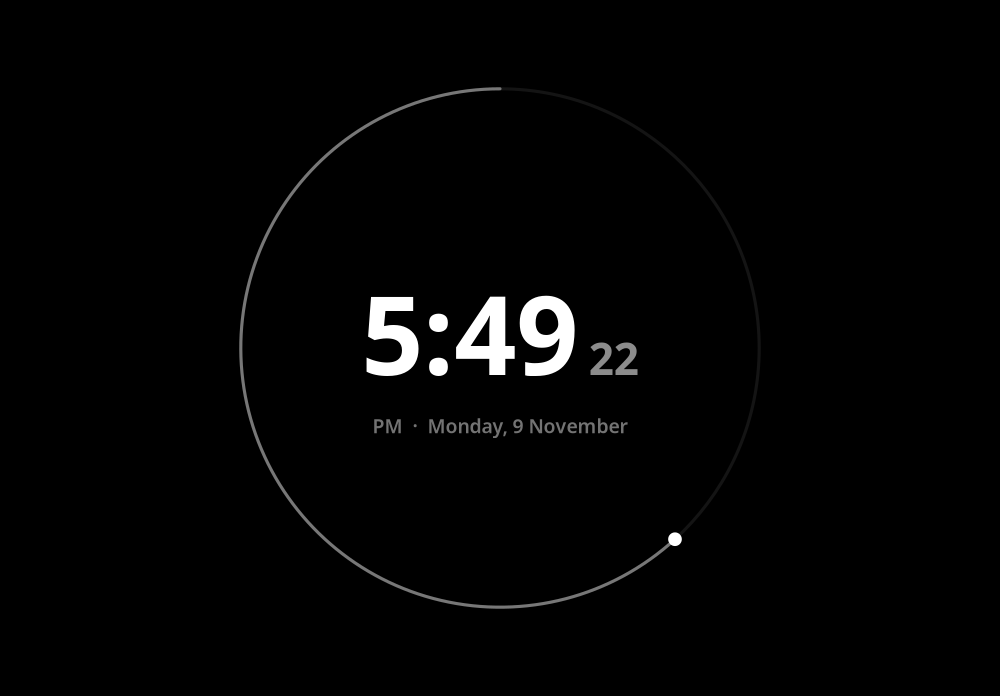
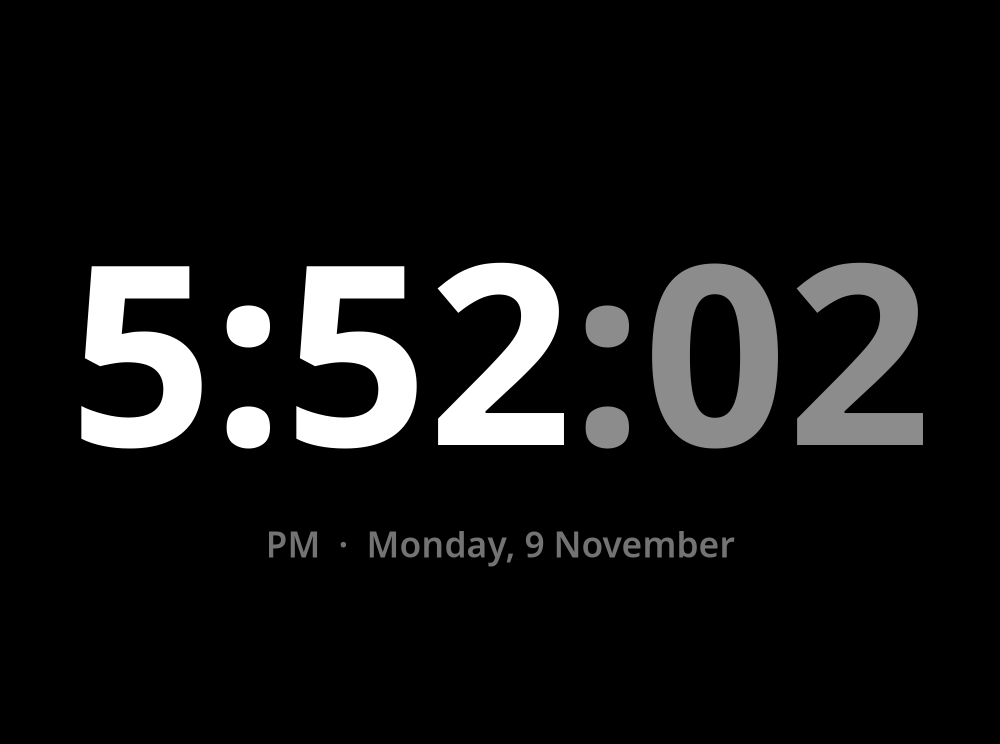
Clock: full-width digital HH:MM:SS, no ring; redraw once per second
Claude-Session: https://claude.ai/code/session_012SCLY9BzmqQHhdFNaUoLWW

diff --git a/lyrics_overlay/clockface.py b/lyrics_overlay/clockface.py
@@ -1,11 +1,15 @@
-"""Full-screen clock: big time, date, and a ring whose arc sweeps smoothly with the seconds."""
+"""Full-screen digital clock: HH:MM:SS across the screen, date underneath."""
 
-import math
+import re
 
 import gi
 
 gi.require_version("PangoCairo", "1.0")
 from gi.repository import Gio, GLib, Gtk, Pango, PangoCairo  # noqa: E402
+
+WIDTH_FILL = 0.90   # time spans 90% of the screen width...
+HEIGHT_MAX = 0.45   # ...unless that would make it taller than 45% of the height
+SECONDS_ALPHA = "55%"
 
 
 def _uses_12h():
@@ -23,91 +27,60 @@ class ClockFace(Gtk.DrawingArea):
         super().__init__(hexpand=True, vexpand=True)
         self.inverted = False
         self.twelve_hour = _uses_12h()
+        self.last_second = None
         self.set_draw_func(self._draw)
 
-    def _colors(self):
-        fg = (0.0, 0.0, 0.0) if self.inverted else (1.0, 1.0, 1.0)
-        return {
-            "bg": (1.0, 1.0, 1.0) if self.inverted else (0.0, 0.0, 0.0),
-            "time": (*fg, 1.0),
-            "date": (*fg, 0.45),
-            "seconds": (*fg, 0.55),
-            "track": (*fg, 0.08),
-            "arc": (*fg, 0.42),
-            "dot": (*fg, 1.0),
-        }
+    def tick(self):
+        """Call every frame; redraws only when the second changes."""
+        s = GLib.DateTime.new_now_local().get_second()
+        if s != self.last_second:
+            self.last_second = s
+            self.queue_draw()
 
-    def _layout(self, cr, text, px, weight):
+    def _layout(self, cr, px, weight):
         layout = PangoCairo.create_layout(cr)
         font = Pango.FontDescription.from_string("Sans")
         font.set_absolute_size(px * Pango.SCALE)
         font.set_weight(weight)
         layout.set_font_description(font)
-        attrs = Pango.AttrList()
-        attrs.insert(Pango.attr_font_features_new("tnum"))  # equal-width digits: no jitter
-        layout.set_attributes(attrs)
-        layout.set_text(text, -1)
         return layout
 
-    def _text(self, cr, text, px, weight, rgba, cx, cy):
-        layout = self._layout(cr, text, px, weight)
-        _ink, logical = layout.get_pixel_extents()
-        cr.set_source_rgba(*rgba)
-        cr.move_to(cx - logical.width / 2, cy - logical.height / 2)
-        PangoCairo.show_layout(cr, layout)
+    def _markup(self, hm, ss):
+        """HH:MM in full color, :SS dimmed; equal-width digits so nothing shifts."""
+        color = "#000000" if self.inverted else "#ffffff"
+        return (f"<span font_features='tnum' foreground='{color}'>{hm}"
+                f"<span alpha='{SECONDS_ALPHA}'>:{ss}</span></span>")
 
     def _draw(self, _area, cr, w, h):
-        c = self._colors()
-        cr.set_source_rgb(*c["bg"])
+        fg = (0.0, 0.0, 0.0) if self.inverted else (1.0, 1.0, 1.0)
+        cr.set_source_rgb(*((1.0, 1.0, 1.0) if self.inverted else (0.0, 0.0, 0.0)))
         cr.paint()
 
         now = GLib.DateTime.new_now_local()
-        sec = now.get_second() + now.get_microsecond() / 1e6
-        cx, cy = w / 2, h / 2
-        r = min(w, h) * 0.36
-        line = max(2.0, r * 0.012)
+        hm = now.format("%I:%M" if self.twelve_hour else "%H:%M")
+        if self.twelve_hour:
+            hm = hm.lstrip("0")
 
-        # Ring track, then the sweeping arc. Even minutes fill the ring,
-        # odd minutes empty it, so it never snaps back to zero.
-        top = -math.pi / 2
-        frac = sec / 60
-        cr.set_line_width(line)
-        cr.set_line_cap(1)  # round
-        cr.set_source_rgba(*c["track"])
-        cr.arc(cx, cy, r, 0, 2 * math.pi)
-        cr.stroke()
-        if now.get_minute() % 2 == 0:
-            start, end = top, top + frac * 2 * math.pi
-        else:
-            start, end = top + frac * 2 * math.pi, top + 2 * math.pi
-        if end - start > 0.001:
-            cr.set_source_rgba(*c["arc"])
-            cr.arc(cx, cy, r, start, end)
-            cr.stroke()
-        # Bright dot at the moving tip.
-        tip = top + frac * 2 * math.pi
-        cr.set_source_rgba(*c["dot"])
-        cr.arc(cx + r * math.cos(tip), cy + r * math.sin(tip), line * 2.2, 0, 2 * math.pi)
-        cr.fill()
+        # Fit to the screen: measure a same-shape sample at 100px, then scale.
+        probe = self._layout(cr, 100, Pango.Weight.HEAVY)
+        probe.set_markup(self._markup(re.sub(r"\d", "0", hm), "00"), -1)
+        pw, ph = probe.get_pixel_size()
+        px = min(100 * w * WIDTH_FILL / max(pw, 1), 100 * h * HEIGHT_MAX / max(ph, 1))
 
-        fmt = "%I:%M" if self.twelve_hour else "%H:%M"
-        time_text = now.format(fmt).lstrip("0") if self.twelve_hour else now.format(fmt)
-        # Big HH:MM with smaller gray seconds beside it, sharing a baseline.
-        big = self._layout(cr, time_text, r * 0.42, Pango.Weight.HEAVY)
-        small = self._layout(cr, now.format("%S"), r * 0.17, Pango.Weight.BOLD)
-        big_w, big_h = big.get_pixel_size()
-        small_w = self._layout(cr, "00", r * 0.17, Pango.Weight.BOLD).get_pixel_size()[0]
-        gap = r * 0.04
-        x = cx - (big_w + gap + small_w) / 2
-        y = cy - r * 0.06 - big_h / 2
-        baseline = y + big.get_baseline() / Pango.SCALE
-        cr.set_source_rgba(*c["time"])
-        cr.move_to(x, y)
-        PangoCairo.show_layout(cr, big)
-        cr.set_source_rgba(*c["seconds"])
-        cr.move_to(x + big_w + gap, baseline - small.get_baseline() / Pango.SCALE)
-        PangoCairo.show_layout(cr, small)
+        time = self._layout(cr, px, Pango.Weight.HEAVY)
+        time.set_markup(self._markup(hm, now.format("%S")), -1)
+        tw, th = time.get_pixel_size()
+
         sub = now.format("%A, %-d %B")
         if self.twelve_hour:
             sub = now.format("%p") + "  ·  " + sub
-        self._text(cr, sub, r * 0.075, Pango.Weight.SEMIBOLD, c["date"], cx, cy + r * 0.30)
+        date = self._layout(cr, max(14, px * 0.14), Pango.Weight.SEMIBOLD)
+        date.set_text(sub, -1)
+        dw, dh = date.get_pixel_size()
+
+        top = (h - (th + dh)) / 2
+        cr.move_to((w - tw) / 2, top)
+        PangoCairo.show_layout(cr, time)
+        cr.set_source_rgba(*fg, 0.45)
+        cr.move_to((w - dw) / 2, top + th)
+        PangoCairo.show_layout(cr, date)

diff --git a/lyrics_overlay/ui.py b/lyrics_overlay/ui.py
@@ -202,7 +202,7 @@ class LyricsWindow(Gtk.ApplicationWindow):
             else:
                 self._update_line(now)
         if self.clock_mode:
-            self.clockface.queue_draw()  # redraw every frame: smooth seconds sweep
+            self.clockface.tick()  # redraws when the second changes
 
         t = frame_clock.get_frame_time() / 1e6
         if self.word_shown_at is not None:
@@ -306,6 +306,7 @@ class LyricsWindow(Gtk.ApplicationWindow):
             inverted = not self.prefs["inverted"]
             (self.add_css_class if inverted else self.remove_css_class)("inverted")
             self.clockface.inverted = inverted
+            self.clockface.queue_draw()
             self._set("inverted", inverted, "Light mode" if inverted else "Dark mode")
         else:
             self.last_shift_tap = now
